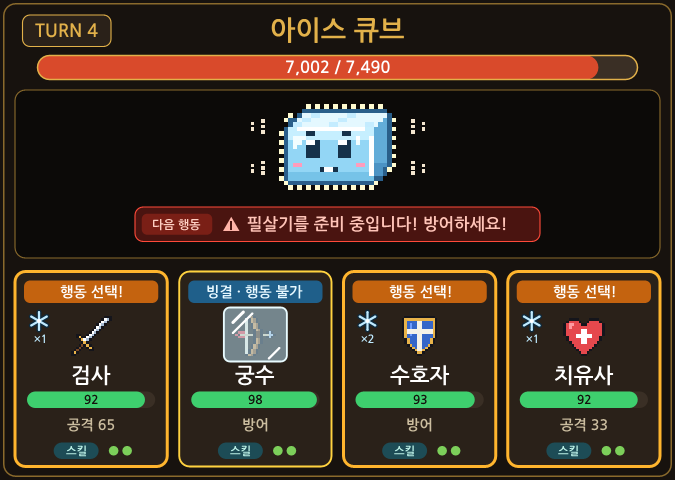
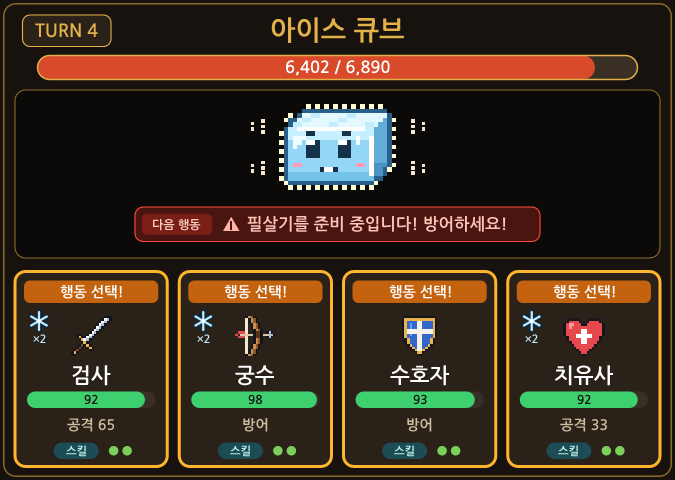
냉기 규칙 변경: 몬스터 기술로만 쌓이고 녹지 않음(방어 +1·공격 -1 없앰), 서리 숨결은 방어로 막음, 아이스 큐브 HP 6800 / 분노해도 기술·피격·디버프 연출은 원래 색

diff --git a/tests/raid/흐름테스트.js b/tests/raid/흐름테스트.js
@@ -644,7 +644,7 @@ let ok4;
     const solo = [{ userId: 's', name: 'S', role: 'sword' }];
     assert(E.createBattle(mush, solo, rng, { minParty: 1 }).maxHp < E.createBattle(mush, solo, rng).maxHp, '테스트 서버(minParty 1)는 혼자일 때 1인 HP, 기본은 2인 HP');
   }
-  // 14-2) 얼음 큐브(Monster-all): 냉기(방어 +1 · 공격·스킬 -1 · 3중첩 빙결) · 서리 숨결 · 얼음 갑옷
+  // 14-2) 얼음 큐브(Monster-all): 냉기(몬스터 기술로만 쌓이고 녹지 않음 · 서리 숨결은 방어로 막음 · 3중첩 빙결) · 얼음 갑옷
   {
     const E = require(path.join(root, 'handlers/레이드전투.js'));
     const all = E.loadMonsters(path.join(root, 'Monster-all'));
@@ -660,34 +660,30 @@ let ok4;
       const fresh = (p = party) => { b = E.createBattle(ice, p, rng); return b; };
 
       fresh();
-      turnWith(b, 'attack', { x: 'guard', y: 'guard' });
-      assert(E.chillStacks(b, x()) === 1 && E.chillStacks(b, y()) === 1, '방어하면 냉기 +1');
       x().chillStacks = 2;
-      turnWith(b, 'attack', { x: 'attack', y: 'attack' });
-      const afterOne = E.chillStacks(b, x());
-      turnWith(b, 'attack', { x: 'attack', y: 'attack' });
-      turnWith(b, 'attack', { x: 'attack', y: 'attack' });
-      assert(afterOne === 1 && E.chillStacks(b, x()) === 0 && E.chillStacks(b, y()) === 0, '공격·스킬하면 냉기 -1(0 아래로 안 감)');
+      turnWith(b, 'attack', { x: 'attack', y: 'guard' });
+      turnWith(b, 'attack', { x: 'skill', y: 'guard' });
+      assert(E.chillStacks(b, x()) === 2 && E.chillStacks(b, y()) === 0, '냉기는 공격·스킬로 녹지 않고 방어로 쌓이지도 않음');
 
       fresh();
-      turnWith(b, 'frost', { x: 'guard' });
+      turnWith(b, 'frost', { x: 'guard', y: 'attack' });
       const frostX = E.chillStacks(b, x()), frostY = E.chillStacks(b, y());
       b.rage = true; x().chillStacks = 0; y().chillStacks = 0;
       turnWith(b, 'frost', { x: 'attack', y: 'attack' });
-      assert(frostX === 2 && frostY === 1 && E.chillStacks(b, x()) === 2 && E.chillStacks(b, y()) === 2 && b.lastTurn.effects.x === 'chill' && b.log.join().includes('❄냉기'), '서리 숨결: 방어해도 전원 냉기 +1, 분노 중 +2');
+      assert(frostX === 0 && frostY === 1 && E.chillStacks(b, x()) === 2 && E.chillStacks(b, y()) === 2 && b.lastTurn.effects.x === 'chill' && b.log.join().includes('❄냉기'), '서리 숨결: 방어한 사람은 막고 나머지 냉기 +1, 분노 중 +2');
 
       fresh();
       x().chillStacks = 2;
-      turnWith(b, 'attack', { x: 'guard', y: 'attack' });
-      assert(E.isStunned(b, x()) && x().stunStatus.name === '빙결' && E.chillStacks(b, x()) === 0 && b.lastTurn.effects.x === 'freeze' && b.log.join().includes('🧊') && E.checkChoice(b, 'x', 'attack'), '3중첩이면 빙결: 다음 턴 행동 불가, 냉기 0');
+      turnWith(b, 'frost', { x: 'attack', y: 'guard' });
+      assert(E.isStunned(b, x()) && x().stunStatus.name === '빙결' && E.chillStacks(b, x()) === 0 && b.lastTurn.effects.x === 'freeze' && b.log.join().includes('🧊') && E.checkChoice(b, 'x', 'attack'), '3중첩이면(몬스터 기술 뒤) 빙결: 다음 턴 행동 불가, 냉기 0');
       x().chillStacks = 1;
       turnWith(b, 'attack', { y: 'attack' });
       assert(E.chillStacks(b, x()) === 1 && b.lastTurn.acts.x.label === '빙결', '빙결 중엔 냉기 그대로');
 
       fresh();
       x().chillStacks = 2;
-      turnWith(b, 'attack', { x: 'guard', y: 'skill' });
-      assert(E.chillStacks(b, x()) === 0 && !E.isStunned(b, x()) && b.log.join().includes('냉기 제거'), '치유사 스킬이 빙결 전에 냉기를 지우면 빙결 없음');
+      turnWith(b, 'frost', { x: 'attack', y: 'skill' });
+      assert(E.chillStacks(b, x()) === 1 && !E.isStunned(b, x()) && b.log.join().includes('냉기 제거'), '치유사 스킬이 숨결 전에 냉기를 지우면 빙결 없음');
 
       fresh();
       x().chillStacks = 1;
@@ -700,7 +696,7 @@ let ok4;
       turnWith(b, 'armor', { x: 'attack', y: 'attack' });
       const armorLog = b.log.join();
       turnWith(b, 'attack', { x: 'attack', y: 'guard' });
-      assert(armorLog.includes('때리면 ❄냉기 +1') && E.chillStacks(b, x()) === 1 && E.chillStacks(b, y()) === 1 && b.lastTurn.acts.x.value === Math.round(100 * ice.moves.armor.effectRate), '얼음 갑옷: 다음 턴 때린 사람 냉기 +1(녹지 않음), 방어한 사람은 +1');
+      assert(armorLog.includes('때리면 ❄냉기 +1') && E.chillStacks(b, x()) === 1 && E.chillStacks(b, y()) === 0 && b.lastTurn.acts.x.value === Math.round(100 * ice.moves.armor.effectRate), '얼음 갑옷: 다음 턴 때린 사람 냉기 +1, 방어한 사람은 그대로');
 
       fresh();
       turnWith(b, 'smash', { x: 'guard', y: 'attack' });
@@ -714,8 +710,8 @@ let ok4;
       fresh();
       delete x().chillStacks; delete y().chillStacks;
       const oldZero = E.chillStacks(b, x()) === 0;
-      turnWith(b, 'attack', { x: 'attack', y: 'guard' });
-      assert(oldZero && E.chillStacks(b, x()) === 0 && E.chillStacks(b, y()) === 1, '냉기 칸 없는 예전 기록은 0');
+      turnWith(b, 'frost', { x: 'attack', y: 'guard' });
+      assert(oldZero && E.chillStacks(b, x()) === 1 && E.chillStacks(b, y()) === 0, '냉기 칸 없는 예전 기록은 0');
 
       fresh([...party, { userId: 'z', name: 'Z', role: 'tank' }]);
       y().hp = 0; x().hp = 1; x().chillStacks = 2;
@@ -734,10 +730,10 @@ let ok4;
       const lines = () => raidMod.effectLines(b).join('\n');
       fresh();
       x().chillStacks = 2; y().chillStacks = 1;
-      assert(lines().includes('❄ 냉기: X(×2), Y(×1) - **3중첩이면 🧊빙결(방어 +1 · 공격·스킬 -1)**'), '전투 화면: 냉기 중첩 줄');
+      assert(lines().includes('❄ 냉기: X(×2), Y(×1) - **3중첩이면 🧊빙결(서리 숨결은 방어로 막음 · 치유사 스킬·회복약으로 제거)**'), '전투 화면: 냉기 중첩 줄');
       fresh();
       x().chillStacks = 2;
-      turnWith(b, 'attack', { x: 'guard', y: 'attack' });
+      turnWith(b, 'frost', { x: 'attack', y: 'guard' });
       assert(lines().includes('🧊 빙결: X - **이번 턴 행동 불가**') && !lines().includes('❄ 냉기'), '전투 화면: 빙결 줄(냉기 0이면 냉기 줄 없음)');
       fresh();
       turnWith(b, 'armor', { x: 'attack', y: 'attack' });

diff --git a/handlers/레이드그림.js b/handlers/레이드그림.js
@@ -967,9 +967,10 @@ function renderBattle(r) {
       || (!isIntentHidden(b) ? m.moves[b.intent]?.readyPose : null)
       || (isShielded(b) && poses.shielded ? 'shielded' : null) // 보호막(갑옷)이 남은 턴엔 그 모습
       || (b.fuse && poses.lit ? 'lit' : null);
-    const fxColor = (b.rage && m.sprite?.rageColors?.o) || m.sprite?.palette?.o || '#7fdc8c';
-    const sporeColor = (b.rage && m.sprite?.rageColors?.x) || m.sprite?.palette?.x || fxColor; // 포자 연출 색
-    const accentColor = (b.rage && m.sprite?.rageColors?.p) || m.sprite?.palette?.p || sporeColor; // 반점 색(독기·파편)
+    // 기술·피격·디버프 연출 색은 분노해도 원래 색(몸 색만 분노 색으로 바뀜 — 사용자 요청)
+    const fxColor = m.sprite?.palette?.o || '#7fdc8c';
+    const sporeColor = m.sprite?.palette?.x || fxColor; // 포자 연출 색
+    const accentColor = m.sprite?.palette?.p || sporeColor; // 반점 색(독기·파편)
     // 박치기·짓누르기는 파티 쪽(아래)으로 몸을 내밀어 그린다
     const monsterY = 196 + (usedFx === 'attack' ? 10 : usedFx === 'smash' || usedFx === 'burst' || usedFx === 'icefall' ? 6 : 0);
     // 보호막(단단해지기 다음 턴): 외곽선을 금속빛으로 바꾸고 둘레에 반짝임 + HP 바 왼쪽에 방패 배지

diff --git a/handlers/레이드.js b/handlers/레이드.js
@@ -294,7 +294,12 @@ function effectLines(b) {
   const chilled = chill ? b.members.filter(mem => chillStacks(b, mem) > 0) : [];
   if (chilled.length) {
     const fz = chill.freezeStatus;
-    lines.push(`${chill.status.emoji} ${chill.status.name}: ${chilled.map(mem => `${mem.name}(×${chillStacks(b, mem)})`).join(', ')} - **${chill.freezeAt}중첩이면 ${fz.emoji}${fz.name}(방어 +${chill.guardStacks} · 공격·스킬 -${chill.melt})**`);
+    // 몬스터 설정에 따라 안내: 방어로 쌓이거나 공격으로 녹는 규칙이 있으면 그걸, 없으면 막는 법·지우는 법
+    const rules = [];
+    if (chill.guardStacks) rules.push(`방어 +${chill.guardStacks}`);
+    if (chill.melt) rules.push(`공격·스킬 -${chill.melt}`);
+    if (!rules.length) rules.push('서리 숨결은 방어로 막음', '치유사 스킬·회복약으로 제거');
+    lines.push(`${chill.status.emoji} ${chill.status.name}: ${chilled.map(mem => `${mem.name}(×${chillStacks(b, mem)})`).join(', ')} - **${chill.freezeAt}중첩이면 ${fz.emoji}${fz.name}(${rules.join(' · ')})**`);
   }
   return lines;
 }

diff --git a/tests/raid/밸런스시뮬.js b/tests/raid/밸런스시뮬.js
@@ -19,7 +19,10 @@ function smart(b, m) {
   const chill = b.monster.chill;
   if (chill) {
     if (m.role === 'healer' && E.partyChillStacks(b) >= 2 * aliveCount(b) && !E.checkChoice(b, m.userId, 'skill')) return 'skill';
-    if (mv === 'smash' && E.chillStacks(b, m) >= chill.freezeAt - chill.guardStacks && !E.checkChoice(b, m.userId, 'potion')) return 'potion';
+    if (mv === 'smash' && chill.guardStacks && E.chillStacks(b, m) >= chill.freezeAt - chill.guardStacks && !E.checkChoice(b, m.userId, 'potion')) return 'potion';
+    // 서리 숨결(방어로 막는 냉기 기술): 이번에 맞으면 얼 사람은 방어
+    const cm = b.monster.moves[mv];
+    if (cm?.effect === 'chill' && cm.guardBlocks && E.chillStacks(b, m) + (b.rage ? (cm.rageStacks ?? cm.stacks) : cm.stacks) >= chill.freezeAt) return 'guard';
   }
   if (E.isWarnIntent(b)) return 'guard'; // 필살기·대폭발 경고(꼬마 폭탄의 점화는 경고 아님)
   // 표식(유령 영혼 사냥): 수호자는 도발로 대신 맞고, 표식 대상은 방어(수호자가 못 막을 때만 — 분노 2인이면 한 명은 직접)

diff --git a/handlers/레이드전투.js b/handlers/레이드전투.js
@@ -700,7 +700,7 @@ function resolveTurn(battle, rng = Math.random) {
         }
         if (t.hp > 0 && move.effect === 'confuse' && !blocked) { t.confuseTurn = battle.turn + 1; t.confuseRate = move.effectRate; t.confuseStatus = move.status; last.effects[t.userId] = 'confuse'; tag = ` ${move.status.emoji}${move.status.name}`; }
         if (t.hp > 0 && move.effect === 'slow' && !blocked) { t.slowUntil = battle.turn + move.effectTurns; t.slowRate = move.effectRate; t.slowStatus = move.status; last.effects[t.userId] = 'slow'; tag = ` ${move.status.emoji}${move.status.name}`; }
-        if (t.hp > 0 && move.effect === 'chill') {
+        if (t.hp > 0 && move.effect === 'chill' && !blocked) { // guardBlocks면 방어한 사람은 냉기를 막는다
           addChill(t, battle.rage ? (move.rageStacks ?? move.stacks) : move.stacks);
           const st = move.status ?? chill.status;
           last.effects[t.userId] = 'chill';

diff --git a/레이드설명서/신몬스터/신몬스터_설명서.md b/레이드설명서/신몬스터/신몬스터_설명서.md
@@ -24,7 +24,7 @@
 | 💧 **점액** | 슬라임(점액 흩뿌리기) | 정해진 턴 동안 주는 피해 감소 | 카드 왼쪽 **방울 배지 + 남은 턴** + 아이콘 위 **점액 얼룩** | 치유사 스킬 |
 | ☠ **독** | 독버섯 | 아군 행동 뒤마다 중첩 × 피해 | 보라 거품 배지(×중첩) · HP 바 보라 | 치유사 스킬(전원) · 회복약(본인) |
 | 🌀 **환각** | 독버섯(최면술) | 다음 턴 방어가 아닌 행동이 확률로 헛손질 | 아이콘 위 청록 소용돌이 | 방어는 빗나가지 않음 |
-| ❄ **냉기** | 아이스 큐브 | 중첩이 쌓이다 **3중첩이면 빙결** | 카드 왼쪽 **눈송이 배지 ×중첩** | 공격·스킬로 1씩 녹음 · 치유사 스킬(전원 0) · 회복약(본인 0) |
+| ❄ **냉기** | 아이스 큐브 | 몬스터 기술로 쌓이고 녹지 않음, **3중첩이면 빙결** | 카드 왼쪽 **눈송이 배지 ×중첩** | 서리 숨결은 방어로 막음 · 치유사 스킬(전원 0) · 회복약(본인 0) |
 | 🧊 **빙결** | 아이스 큐브 | 다음 턴 행동 불가(냉기는 0으로) | 아이콘을 덮는 **반투명 얼음** · 얼음색 리본 "빙결 · 행동 불가" | — |
 | 😱 **공포** | 고스트(울부짖기·원혼 폭풍) | 다음 턴 **스킬 사용 불가**(공격·방어·회복약은 됨) | 카드 왼쪽 **보라 느낌표 배지** | 방어하면 안 걸림 |
 | 👁 **표식** | 고스트(영혼 사냥) | 예고 때 **대상이 정해짐** → 다음 턴 그 사람이 큰 피해 | 예고 문구에 **이름**, 카드 오른쪽 위 **빛나는 눈** | 본인 방어 · 수호자 도발(대신 맞음) |
@@ -48,17 +48,17 @@
 - **생김새**: 둥근 실루엣의 하늘색 얼음 큐브(윗면 서리 결, 앞면 위→아래 음영, 속이 비치는 빛). 큰 눈 + 반사광 + 볼터치에 살짝 기운 눈썹, 일자 입. 분노하면 붉게.
 - **HP**(4인 기준) 7400
 
-### 냉기 규칙 — "웅크리면 얼어붙는다"
-- **방어하면 냉기 +1**, 공격·스킬을 쓰면 **-1**(0 밑으로 안 감). 행동하는 순간 바로 바뀝니다.
-- **몬스터 기술 뒤에** 3중첩 이상이면 🧊빙결(기절처럼 맞은 순간 걸리고, 결과 화면 리본에 "빙결!") → 다음 턴 행동 불가, 냉기 0.
-- 치유사는 아군 중 마지막에 행동하므로, 빙결 직전인 사람의 냉기를 **같은 턴에 지워 줄 수 있습니다.**
-- 회복약은 본인 냉기를 0으로(냉기가 있으면 HP가 가득해도 마실 수 있음).
+### 냉기 규칙 — "쌓이면 녹지 않는다"
+- 냉기는 **몬스터 기술로만 쌓입니다**: 서리 숨결(+1, 분노 중 +2), 얼음 갑옷이 있는 턴에 몬스터를 때리면 +1.
+- **저절로도, 공격·스킬로도 녹지 않습니다.** 지우는 방법은 치유사 스킬(전원 0), 회복약(본인 0), 빙결(걸리면 0)뿐입니다.
+- **서리 숨결은 방어하면 막습니다.** 예고를 보고 막을지 정하는 판단이 생깁니다(방어해도 냉기가 쌓이던 예전 규칙은 없앰).
+- 몬스터 기술 뒤에 3중첩 이상이면 🧊빙결 — 기절처럼 맞은 순간 걸리고, 결과 화면 카드 리본에 "빙결!". 다음 턴 행동 불가.
 
 ### 기술
 | 기술 | 다음 행동 대사 | 효과 |
 |---|---|---|
 | 얼음 박치기 | 몸을 데굴 굴릴 준비를 한다... | 한 명 8~10 |
-| 서리 숨결 | 입김이 하얗게 서리기 시작한다... | 전원 3~5 + ❄냉기 +1(분노 중 +2) — **방어해도 걸림** |
+| 서리 숨결 | 입김이 하얗게 서리기 시작한다... | 전원 3~5 + ❄냉기 +1(분노 중 +2) — **방어하면 막음** |
 | 얼음 갑옷 | 몸 모서리에 얼음 가시가 돋는다... | 다음 턴 받는 피해 -35%, 그 턴에 때린 사람 냉기 +1 |
 | 필살 빙하 낙하 | 💥 필살기를 준비 중입니다! 방어하세요! | 전원 12~15 + 방어 안 한 사람 🧊빙결 |
 
@@ -155,6 +155,7 @@
 
 ## 5. 공통 화면 변경 (기존 몬스터에도 적용)
 
+- **분노 연출 색**: 분노하면 몬스터 몸 색만 바뀌고, 기술·피격·디버프 연출은 원래 색 그대로.
 - **기절**: 아이콘 **머리 위를 도는 꼬리 달린 별 셋**, 막 걸린 턴 결과 화면엔 카드 리본에 "기절!"(빙결도 같은 자리에 "빙결!").
 - **슬라임 필살 짓누르기**: 위에서 내리꽂힌 양옆으로 뻗는 굵은 노란 충격선 세 줄씩 + 흙먼지 + 튀는 작은 충격 별(점액은 튀지 않음), 맞은 카드엔 노란 별.
 - **점액**: 아이콘 위 점액 얼룩 + 카드 왼쪽 **방울 배지(남은 턴)** 둘 다.
@@ -169,9 +170,9 @@
 
 | | 아이스 큐브 | 고스트 | 꼬마 폭탄 |
 |---|---|---|---|
-| HP(4인 기준) | 7400 | 7200 | 9400 |
+| HP(4인 기준) | 6800 | 7200 | 9400 |
 | 분노 | HP 50% 이하, 피해 ×1.5 | 같음 | 같음 |
-| 보통 플레이 승률 2·3·4인 | 85 · 81 · 81% | 75 · 87 · 90% | 84 · 80 · 95% |
+| 보통 플레이 승률 2·3·4인 | 84 · 83 · 85% | 75 · 87 · 90% | 84 · 80 · 95% |
 | 평균 턴 | 24~25 | 25 | 23~25 |
 
 - 목표: 2~4인 평균 24~27턴(3~5분), 보통 플레이 승률 80~85%. 시뮬은 `node tests/raid/밸런스시뮬.js <icecube|ghost|bomb>`.

diff --git a/인수인계.md b/인수인계.md
@@ -133,6 +133,7 @@ node tests/raid/실행.js
 - 2차 피드백: 영혼 사냥=세 줄 할퀴기(시안 B 선택) — 고스트 쪽 연출 없이 맞은 카드 전체를 비스듬히 가르는 큰 세 줄 할퀴기(renderBattle의 curseLink, 맞은 카드에만), 공포 아이콘=질린 눈(보라 눈꺼풀 안 큰 흰자 · 오그라든 눈동자). 점화=도화선 끝 불꽃 별+둘레 불티+연기(양옆 포물선 불티는 뺌), **카운트다운 중엔 어떤 기술·자세든 도화선 끝에 불꽃**(sprite.fuseTip). 대폭발은 맞은 사람 전원 🔥화상 1중첩(방어해도 걸림) — 대폭발 피해는 18~22 유지(사용자 요청), 대신 불끄기 기준 24→20%·분진 피해 3~5→2~4(승률 2·3·4인 88·77·93%). 빙결 리본은 얼음색.
 - 필살기 연출 다시(사용자 요청 — 밋밋함): 슬라임 필살 짓누르기=바닥 점액 충격파 고리 두 겹 + 사방으로 튀는 점액 방울 + 갈라진 바닥, 맞은 카드엔 아이콘 오른쪽 아래 점액 자국(노란 별 대신). 아이스 큐브 빙하 낙하=비스듬히 내리꽂히는 빙하 결정 조각 + 바닥 서리 충격파(흰 고리·얼음 가시·눈송이), 맞은 카드엔 아이콘 아래에서 솟은 얼음 결정.
 - 3차 피드백(2026-11-07): 고스트 투명화가 실전에서 한 번도 안 나와(시뮬상 12%, 13% 판은 0번) 비중 1.5→3·할퀴기 4→3.5, 영혼 사냥 12~15→18~22, HP 7700→7200(승률 2·3·4인 75·87·90%). 꼬마 폭탄 불끄기 성공률이 2인 10%·4인 1%로 사실상 못 막아서 카운트다운 3→4턴(분노 2→3턴)·기준 20→13%(성공률 40~48%), 대신 박치기 10~12·분진 3~5·HP 9400(84·80·95%), 불끄기 막대는 남은 불이 줄어드는 방향. 아이스 큐브 빙결 판정은 몬스터 기술 뒤에만(기절처럼), 결과 화면 카드 리본에 "빙결!"/"기절!", 서리 숨결 피격은 입김 바람줄기(빙결 덮개와 구분). 슬라임 필살 짓누르기=굵은 노란 충격선+흙먼지+작은 충격 별(시안 A), 피격은 노란 별(원래대로).
+- 냉기 규칙 다시(사용자 요청 — 공격할 때마다 녹아 빙결이 거의 안 걸렸음): 냉기는 몬스터 기술로만 쌓이고(guardStacks 0 · melt 0) 저절로·공격으로 녹지 않음, 서리 숨결은 방어로 막음(guardBlocks), 지우는 법은 치유사 스킬·회복약·빙결. HP 7400→6800(승률 2·3·4인 84·83·85%, 24~26턴). 시뮬 봇은 이번 숨결에 얼 사람이 방어. 분노해도 기술·피격·디버프 연출은 원래 색(몸 색만 분노 색).
 - 화면(공통): 기절은 아이콘 머리 위를 도는 꼬리 달린 별 셋(사용자가 고른 모양), 점액은 왼쪽 방울 배지(남은 턴) + 아이콘 위 점액 얼룩 둘 다(사용자 요청).
 
 ### 3-2. 밸런스 수치 (`handlers/레이드전투.js` 위쪽 상수)
